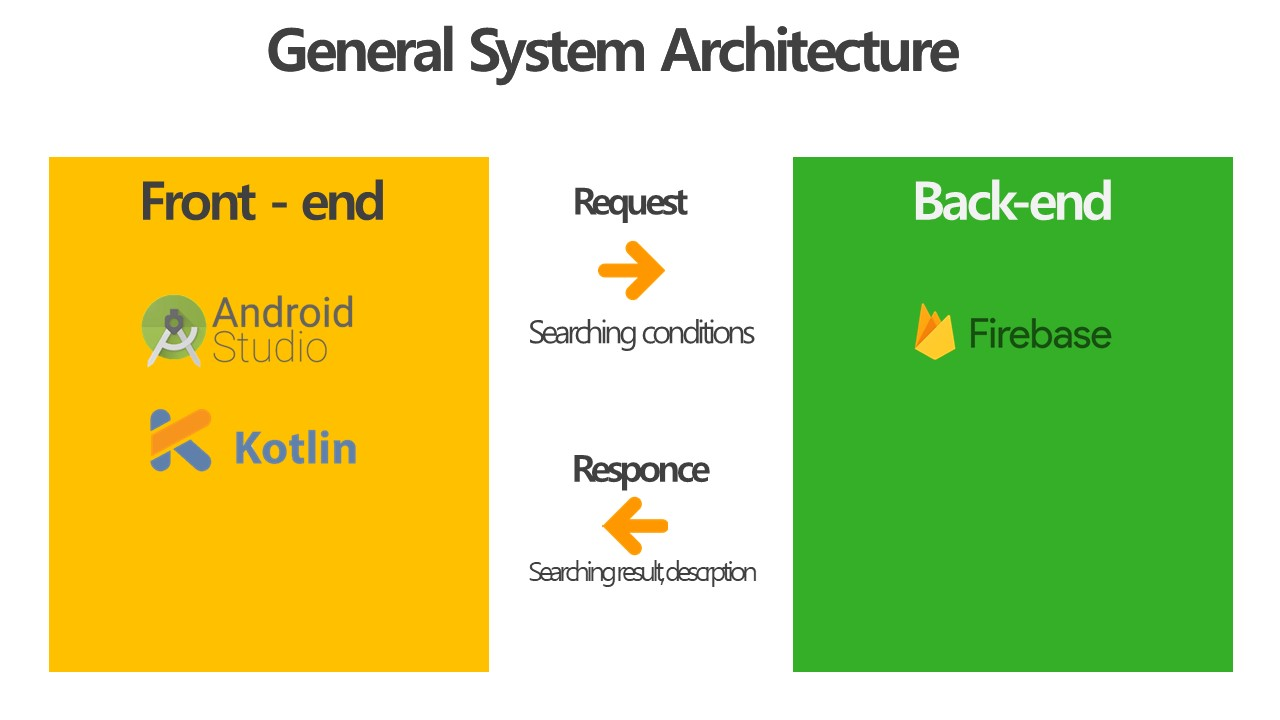
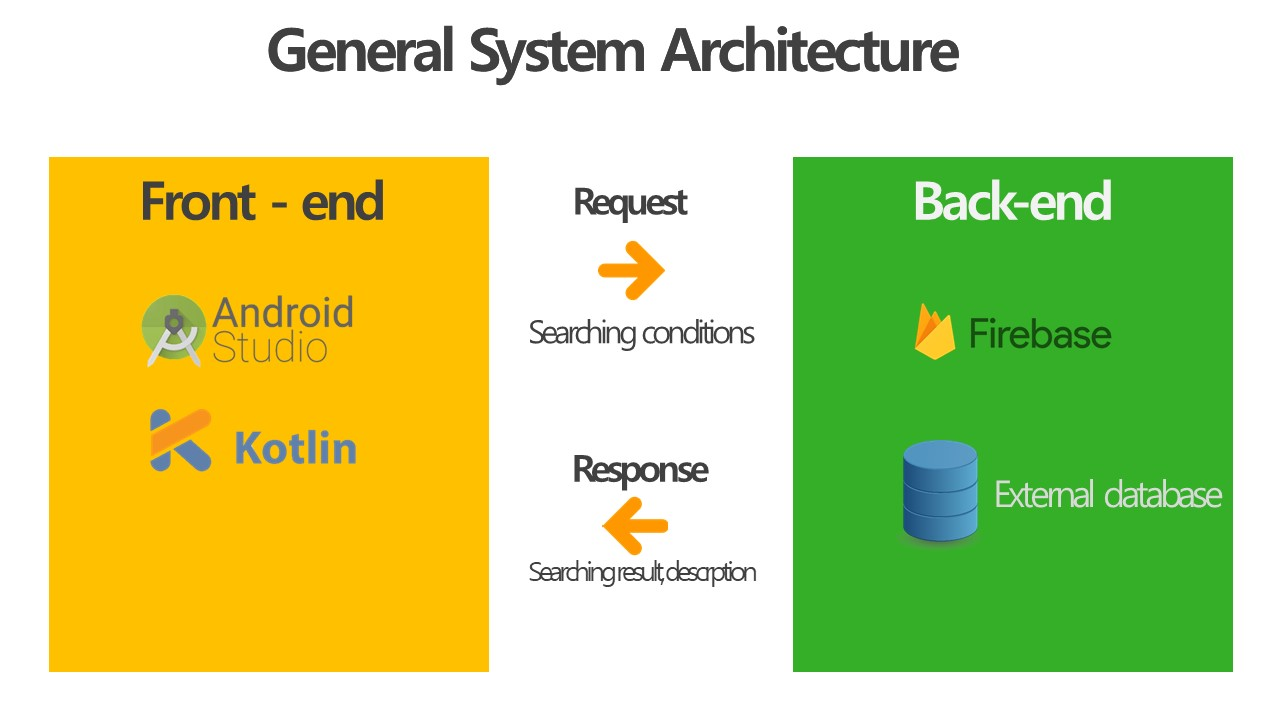
read me update

Changed region(s): [[0.6875, 0.6111, 0.9688, 0.7639], [0.5312, 0.6417, 0.5625, 0.6722]]

diff --git a/README.md b/README.md
@@ -74,10 +74,10 @@
 | 1       |19 OCT - 09 NOV | Presentation resource & presentatin     |         | 4.5          |          |
 | 1       |19 OCT - 09 NOV | Sprint explanation                      | Eyad    | 2            | Done     |
 | 1       |19 OCT - 09 NOV | General Service Architecure             | Yoon    | 2.5          | Done     |
-| 1       |19 OCT - 09 NOV | Mock up                                 | Yoon    | 6            | 40% Done |
+| 1       |19 OCT - 09 NOV | Mock up                                 | Yoon    | 6            | Done    |
 | 1       |19 OCT - 09 NOV | Finantial model                         | Ron     | 8            | 60% Done |
 | 1       |19 OCT - 09 NOV | Looking for Alternative DB resource     | Yoon    | ?            | On going |
-| 1       |19 OCT - 09 NOV | DB data model                           |         | 6.5          | On going |
+| 1       |19 OCT - 09 NOV | DB data model                           | Marc    | 6.5          | Done     |
 | 1       |19 OCT - 09 NOV | F0 : sign up with use0rname / pw        |Eyad,Marc| 2            | On going |
 | 1       |19 OCT - 09 NOV | F0 : sign in with username / pw         |Eyad,Marc| 1.5          | On going |
 | 1       |19 OCT - 09 NOV | F0 : sign in with Google account        |Eyad,Marc| 2            | On going |
